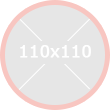
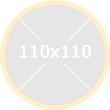
change color

Changed region(s): [[0.0, 0.0, 1.0, 1.0]]

diff --git a/base/static/style.css b/base/static/style.css
@@ -87,7 +87,7 @@ h1, h2, h3, h4, .header h1 a, .page .portfolio .item, .page .portfolio .item a, 
   border-radius: 50%;
   background-clip: padding-box; }
   #imagelightbox-close:hover {
-    background-color: #e93478; }
+    background-color: #f0c125; }
   #imagelightbox-close:before, #imagelightbox-close:after {
     width: 2px;
     background-color: #fff;
@@ -268,7 +268,7 @@ a {
       width: 304px;
       height: 136px;
       padding: 20px 45px 0;
-      color: #e93478;
+      color: #f0c125;
       text-align: center;
       background: url(images/background-logo.png) no-repeat 0 0; }
       @media all and (min-width: 960px) {
@@ -335,7 +335,7 @@ a {
       .menu ul.items li a {
         padding: 10px 0; } }
     .menu ul.items li a:hover, .menu ul.items li a.active {
-      color: #e93478; }
+      color: #f0c125; }
   .menu ul.social {
     position: absolute;
     top: 13px;
@@ -413,7 +413,7 @@ a {
     .page .promo .flexslider .flex-control-paging li a {
       width: 15px;
       height: 15px;
-      background: #e93478;
+      background: #f0c125;
       display: block;
       cursor: pointer;
       text-indent: -9999px;
@@ -438,7 +438,7 @@ a {
       text-align: center;
       border-bottom: 1px solid #d5d5d5; }
       .page .abstract p em {
-        color: #e93478;
+        color: #f0c125;
         font-size: 18px; }
   .page .services h2, .page .portfolio h2, .page .team h2 {
     margin-bottom: 45px;
@@ -462,7 +462,7 @@ a {
       font-style: italic;
       margin-bottom: 15px;
       font-size: 18px;
-      color: #e93478;
+      color: #f0c125;
       margin-bottom: 20px; }
   .page .products {
     line-height: 20px;
@@ -521,7 +521,7 @@ a {
           background: url(images/icons-sprite.png) no-repeat -219px -78px;
           line-height: 20px;
           padding-left: 24px;
-          color: #e93478;
+          color: #f0c125;
           -webkit-transition: all 0.3s ease-in-out;
           -moz-transition: all 0.3s ease-in-out;
           -o-transition: all 0.3s ease-in-out;
@@ -605,11 +605,11 @@ a {
     .page .team h3 {
       font-size: 18px;
       font-style: italic;
-      color: #e93478; }
+      color: #f0c125; }
     .page .team p {
       margin-bottom: 7px; }
       .page .team p span {
-        color: #e93478; }
+        color: #f0c125; }
       .page .team p strong {
         text-transform: uppercase;
         font-weight: normal; }
@@ -724,16 +724,16 @@ a {
           font-style: italic;
           margin-bottom: 25px; }
         .page .map .address div h4 {
-          color: #e93478;
+          color: #f0c125;
           text-transform: uppercase;
           font-size: 20px;
           margin-bottom: 10px; }
         .page .map .address div strong {
           font-weight: normal;
-          color: #e93478; }
+          color: #f0c125; }
   .page .contact {
     border-top: 6px solid #f8c6c1;
-    background: #e93478;
+    background: #eebe25;
     color: #f7f8fa;
     font-size: 14px;
     padding: 30px 0; }
@@ -803,7 +803,7 @@ a {
           background-color: #f8c6c1; }
       .page .contact .form button {
         background: #c3d982;
-        color: #e93478;
+        color: #f0c125;
         font-size: 22px;
         width: 96.875%;
         cursor: pointer;
@@ -855,7 +855,7 @@ a {
   background: #f7f8fa url(images/pink-wave-pattern.png) center top repeat-x;
   text-align: center; }
   .footer .container p, .footer .container p a {
-    color: #e93478;
+    color: #f0c125;
     font-size: 14px; }
 
 .anchor {
